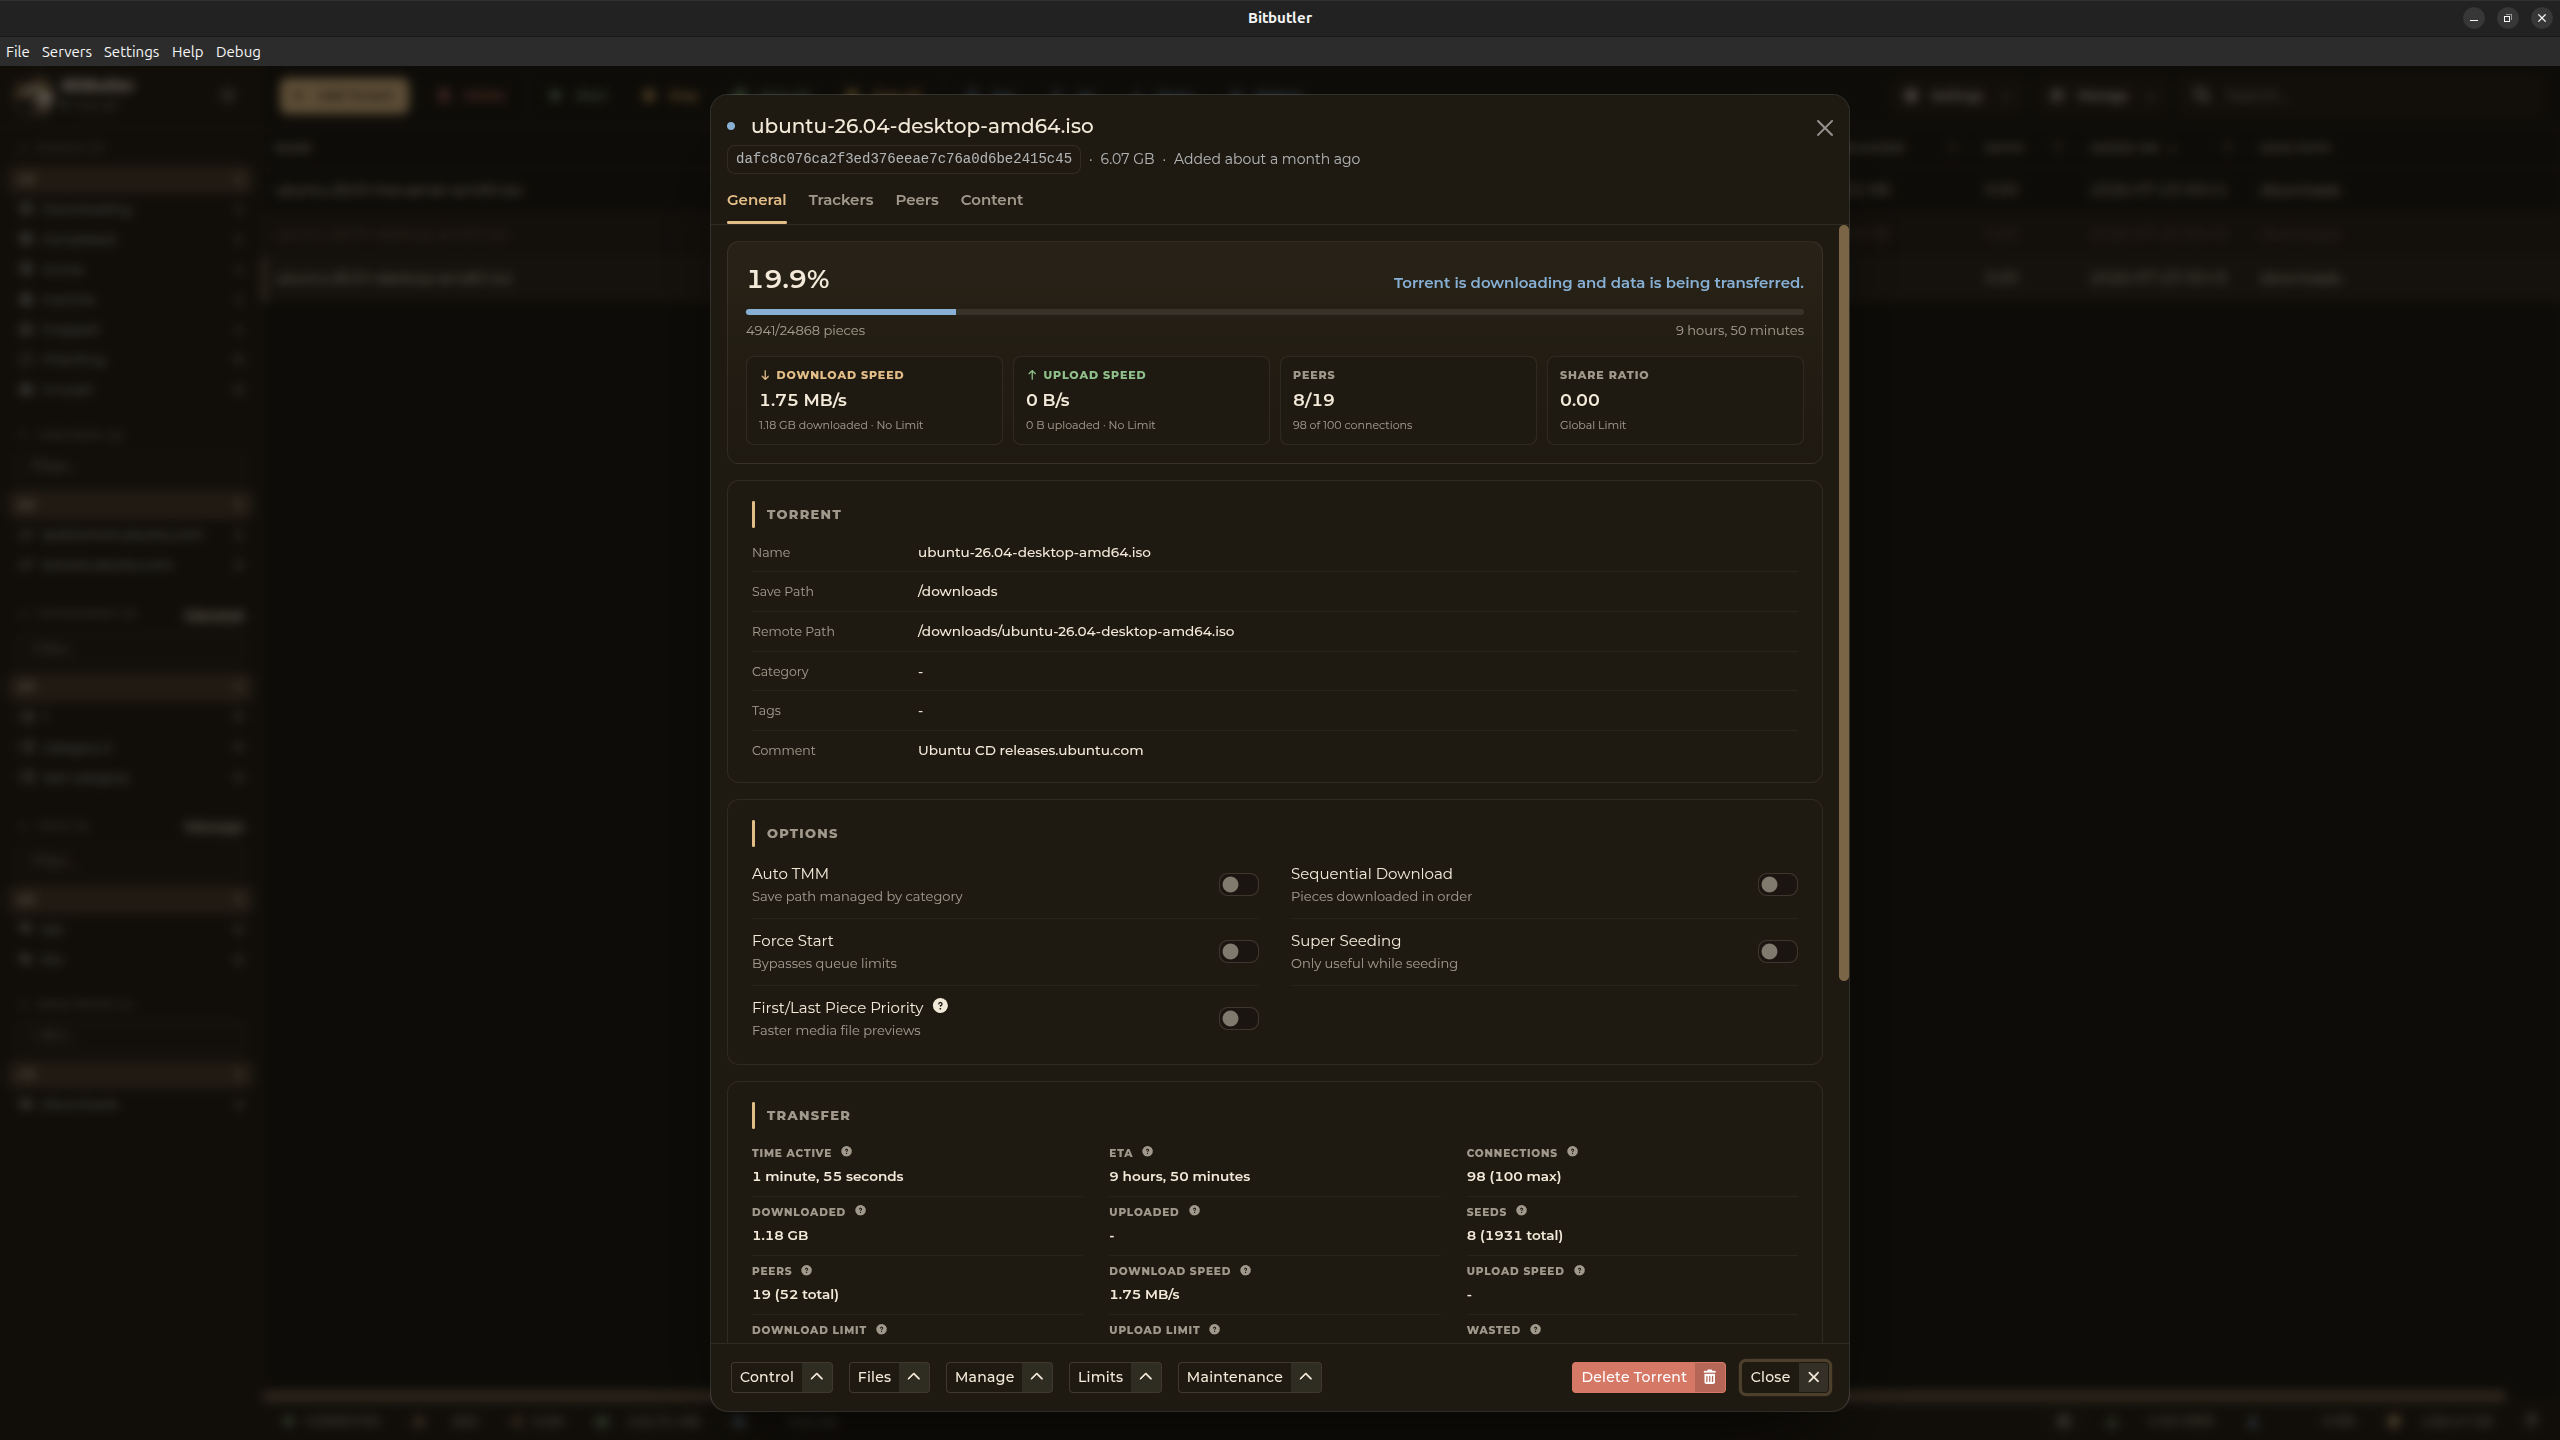
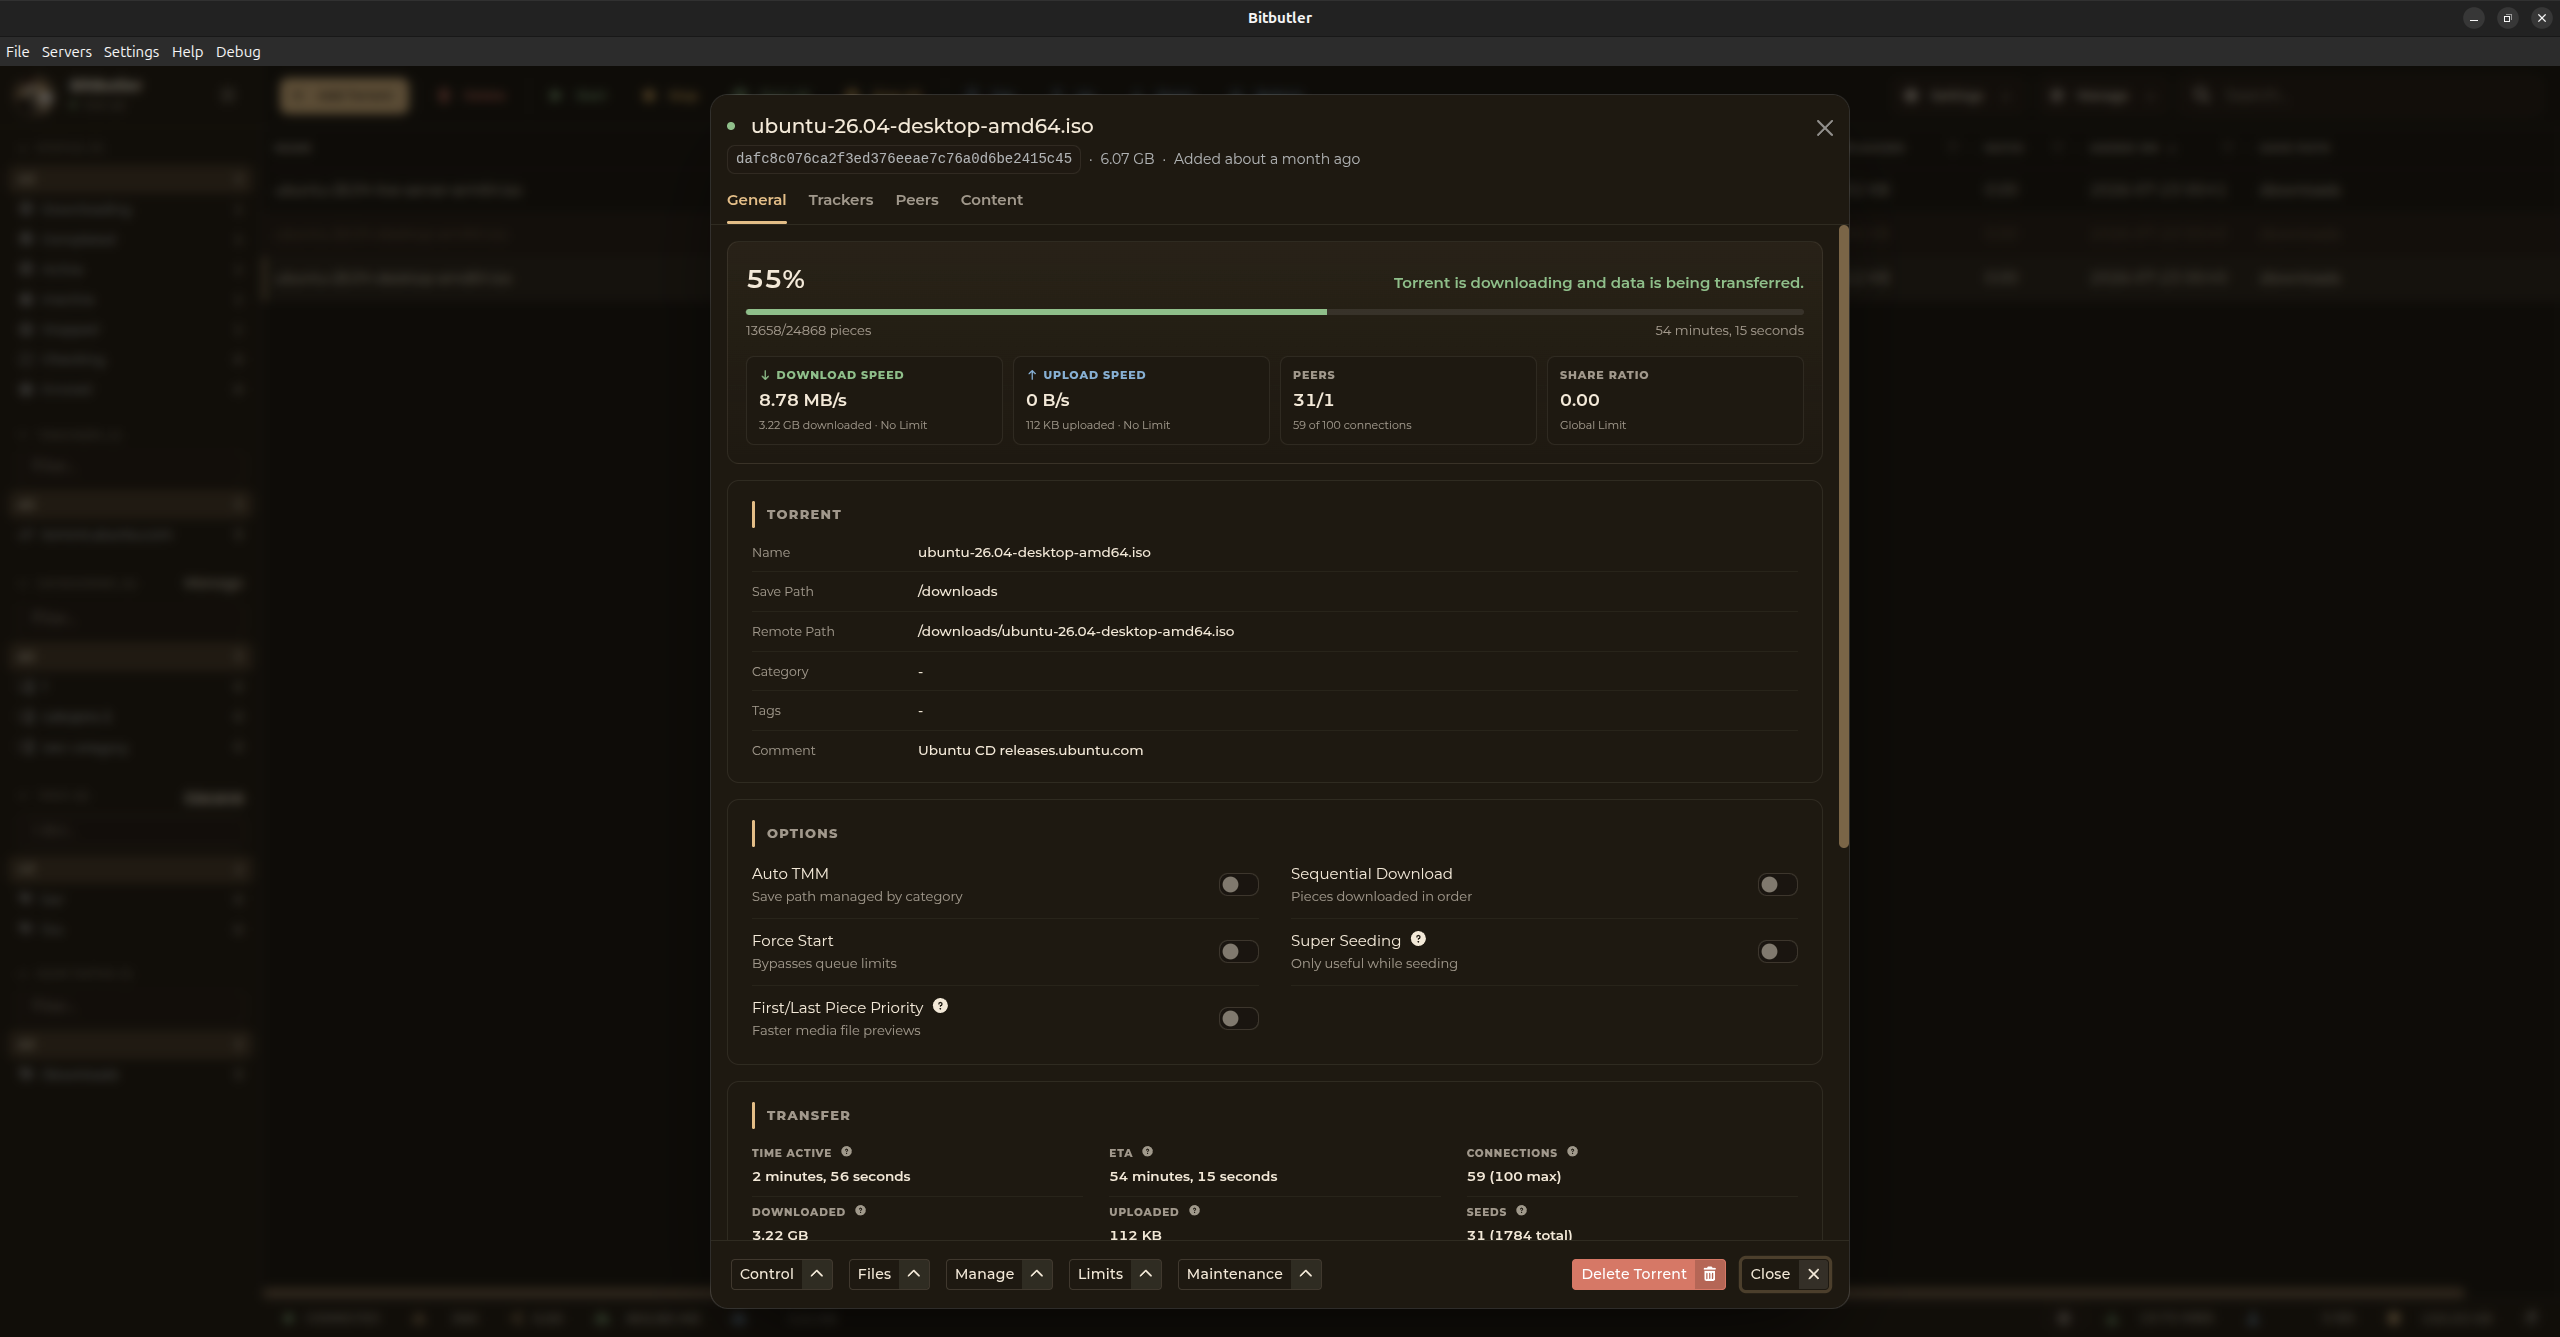
Fix semantic color consistency across themes (#312)
* #311: fix semantic color consistency across themes

Standardize download=success/green and upload=info/blue across the
progress bars, hero card, and "torrent already exists" modal, and fix
the two themes (aurora, deep-sea dark) where danger/success/info had
drifted into a different color family or duplicated the theme's own
accent colors.

Claude-Session: https://claude.ai/code/session_01PyKZaYpCXWbMUgqyEgUgx2

* #311: update docs screenshots for corrected upload/download colors

Claude-Session: https://claude.ai/code/session_01NkvM5k7feFptNDgq1tTrU6

* #311: update stale spec expectations for swapped download/upload colors

Claude-Session: https://claude.ai/code/session_01NkvM5k7feFptNDgq1tTrU6

---------

diff --git a/packages/app/src/styles/themes/deep-sea/_dark.scss b/packages/app/src/styles/themes/deep-sea/_dark.scss
@@ -4,10 +4,10 @@
 $deep-sea-dark-primary: #7ab2b2;
 $deep-sea-dark-secondary: #088395;
 
-$deep-sea-dark-success: #7ab2b2;
+$deep-sea-dark-success: #7ecf95;
 $deep-sea-dark-danger: #e06c67;
 $deep-sea-dark-warning: #f4c46b;
-$deep-sea-dark-info: #088395;
+$deep-sea-dark-info: #78d0e4;
 
 $deep-sea-dark-body-bg: #04161d;
 $deep-sea-dark-body-color: #ebf4f6;
@@ -32,14 +32,14 @@ $deep-sea-dark-check-marker-colors: (
     --bs-secondary-rgb: #{string.unquote('8, 131, 149')};
 
     --bs-success: #{$deep-sea-dark-success};
-    --bs-success-rgb: #{string.unquote('122, 178, 178')};
+    --bs-success-rgb: #{string.unquote('126, 207, 149')};
 
     --bs-danger: #{$deep-sea-dark-danger};
     --bs-danger-rgb: #{string.unquote('224, 108, 103')};
 
     --bb-primary-ink: #04161d;
     --bb-secondary-ink: #04161d;
-    --bb-success-ink: #04161d;
+    --bb-success-ink: #000;
     --bb-danger-ink: #fff;
     --bb-warning-ink: #000;
     --bb-info-ink: #000;
@@ -50,7 +50,7 @@ $deep-sea-dark-check-marker-colors: (
     --bs-warning-rgb: #{string.unquote('244, 196, 107')};
 
     --bs-info: #{$deep-sea-dark-info};
-    --bs-info-rgb: #{string.unquote('8, 131, 149')};
+    --bs-info-rgb: #{string.unquote('120, 208, 228')};
 
     --bs-body-bg: #{$deep-sea-dark-body-bg};
     --bs-body-color: #{$deep-sea-dark-body-color};

diff --git a/packages/app/src/app/components/bb-progress/torrent-state-variant.spec.ts b/packages/app/src/app/components/bb-progress/torrent-state-variant.spec.ts
@@ -42,20 +42,20 @@ describe('variantForTorrentState', () => {
     expect(variantForTorrentState('stalledUP')).toBe('warning');
   });
 
-  it('returns "success" for uploading', () => {
-    expect(variantForTorrentState('uploading')).toBe('success');
+  it('returns "info" for uploading', () => {
+    expect(variantForTorrentState('uploading')).toBe('info');
   });
 
-  it('returns "success" for forcedUP', () => {
-    expect(variantForTorrentState('forcedUP')).toBe('success');
+  it('returns "info" for forcedUP', () => {
+    expect(variantForTorrentState('forcedUP')).toBe('info');
   });
 
-  it('returns "info" for downloading', () => {
-    expect(variantForTorrentState('downloading')).toBe('info');
+  it('returns "success" for downloading', () => {
+    expect(variantForTorrentState('downloading')).toBe('success');
   });
 
-  it('returns "info" for forcedDL', () => {
-    expect(variantForTorrentState('forcedDL')).toBe('info');
+  it('returns "success" for forcedDL', () => {
+    expect(variantForTorrentState('forcedDL')).toBe('success');
   });
 
   it('returns "primary" for checkingDL', () => {

diff --git a/packages/app/src/app/modals/torrent-details/general/general.spec.ts b/packages/app/src/app/modals/torrent-details/general/general.spec.ts
@@ -212,13 +212,13 @@ describe('General', () => {
   });
 
   describe('stateVariant', () => {
-    it('maps downloading to the info variant', () => {
+    it('maps downloading to the success variant', () => {
       mockDataService.torrent.set({
         data: makeTorrent({ state: 'downloading' }),
         properties: makeProperties(),
       });
       fixture.detectChanges();
-      expect(component.stateVariant()).toBe('info');
+      expect(component.stateVariant()).toBe('success');
     });
 
     it('maps error to the danger variant', () => {
@@ -238,7 +238,7 @@ describe('General', () => {
       fixture.detectChanges();
 
       const state = fixture.nativeElement.querySelector('.bb-hero-state');
-      expect(state.classList.contains('text-success')).toBe(true);
+      expect(state.classList.contains('text-info')).toBe(true);
     });
   });
 

diff --git a/packages/app/src/app/modals/torrent-details/general/general.html b/packages/app/src/app/modals/torrent-details/general/general.html
@@ -69,7 +69,7 @@
 
       <div class="bb-hero-kpis">
         <div class="bb-hero-kpi">
-          <span class="bb-hero-kpi__label bb-hero-kpi__label--accent">
+          <span class="bb-hero-kpi__label bb-hero-kpi__label--dl">
             <fa-icon [icon]="icons['faArrowDown']" />
             {{ 'components.modals.torrent-details.general.download-speed' | translate }}
           </span>
@@ -87,7 +87,7 @@
           }}</span>
         </div>
         <div class="bb-hero-kpi">
-          <span class="bb-hero-kpi__label bb-hero-kpi__label--success">
+          <span class="bb-hero-kpi__label bb-hero-kpi__label--ul">
             <fa-icon [icon]="icons['faArrowUp']" />
             {{ 'components.modals.torrent-details.general.upload-speed' | translate }}
           </span>

diff --git a/packages/app/src/styles/themes/aurora/_light.scss b/packages/app/src/styles/themes/aurora/_light.scss
@@ -5,7 +5,7 @@ $au-light-primary: #2d3a8c;
 $au-light-secondary: #2bb3b1;
 
 $au-light-success: #2fbf71;
-$au-light-danger: #e5487e;
+$au-light-danger: #e6394f;
 $au-light-warning: #f2b705;
 $au-light-info: #4aa3ff;
 
@@ -44,7 +44,7 @@ $au-light-check-marker-colors: (
     --bs-success-rgb: #{string.unquote('47, 191, 113')};
 
     --bs-danger: #{$au-light-danger};
-    --bs-danger-rgb: #{string.unquote('229, 72, 126')};
+    --bs-danger-rgb: #{string.unquote('230, 57, 79')};
 
     --bs-warning: #{$au-light-warning};
     --bs-warning-rgb: #{string.unquote('242, 183, 5')};

diff --git a/packages/app/src/styles/themes/aurora/_dark.scss b/packages/app/src/styles/themes/aurora/_dark.scss
@@ -5,7 +5,7 @@ $au-dark-primary: #a5b4ff;
 $au-dark-secondary: #62e6e2;
 
 $au-dark-success: #7de7a8;
-$au-dark-danger: #ff6fa6;
+$au-dark-danger: #ff5c72;
 $au-dark-warning: #ffd166;
 $au-dark-info: #6ec5ff;
 
@@ -44,7 +44,7 @@ $au-dark-check-marker-colors: (
     --bs-success-rgb: #{string.unquote('125, 231, 168')};
 
     --bs-danger: #{$au-dark-danger};
-    --bs-danger-rgb: #{string.unquote('255, 111, 166')};
+    --bs-danger-rgb: #{string.unquote('255, 92, 114')};
 
     --bs-warning: #{$au-dark-warning};
     --bs-warning-rgb: #{string.unquote('255, 209, 102')};

diff --git a/packages/app/src/app/pages/main/grid/renderers/status-dot-cell-renderer/status-dot-cell-renderer.spec.ts b/packages/app/src/app/pages/main/grid/renderers/status-dot-cell-renderer/status-dot-cell-renderer.spec.ts
@@ -25,7 +25,7 @@ describe('StatusDotCellRenderer', () => {
 
   it('agInit should derive the variant from data.state', () => {
     component.agInit({ data: { state: 'downloading' } } as any);
-    expect(component.variant).toBe('info');
+    expect(component.variant).toBe('success');
   });
 
   it('agInit should fall back to secondary when data is null', () => {

diff --git a/packages/app/src/app/components/bb-progress/torrent-state-variant.ts b/packages/app/src/app/components/bb-progress/torrent-state-variant.ts
@@ -20,11 +20,11 @@ export function variantForTorrentState(state: BbProgressState): BbProgressVarian
 
     case 'uploading':
     case 'forcedUP':
-      return 'success';
+      return 'info';
 
     case 'downloading':
     case 'forcedDL':
-      return 'info';
+      return 'success';
 
     case 'checkingDL':
     case 'checkingUP':

diff --git a/packages/app/src/app/modals/torrent-details/general/general.scss b/packages/app/src/app/modals/torrent-details/general/general.scss
@@ -85,12 +85,12 @@
     font-size: 0.625rem;
   }
 
-  &--accent {
-    color: var(--bb-accent);
+  &--dl {
+    color: var(--bs-success);
   }
 
-  &--success {
-    color: var(--bs-success);
+  &--ul {
+    color: var(--bs-info);
   }
 }
 

diff --git a/packages/app/src/app/modals/torrent-exists/torrent-exists.scss b/packages/app/src/app/modals/torrent-exists/torrent-exists.scss
@@ -51,11 +51,11 @@
   gap: 6px;
 
   &--dl {
-    color: var(--bb-accent);
+    color: var(--bs-success);
   }
 
   &--ul {
-    color: var(--bs-success);
+    color: var(--bs-info);
   }
 
   &-value {
